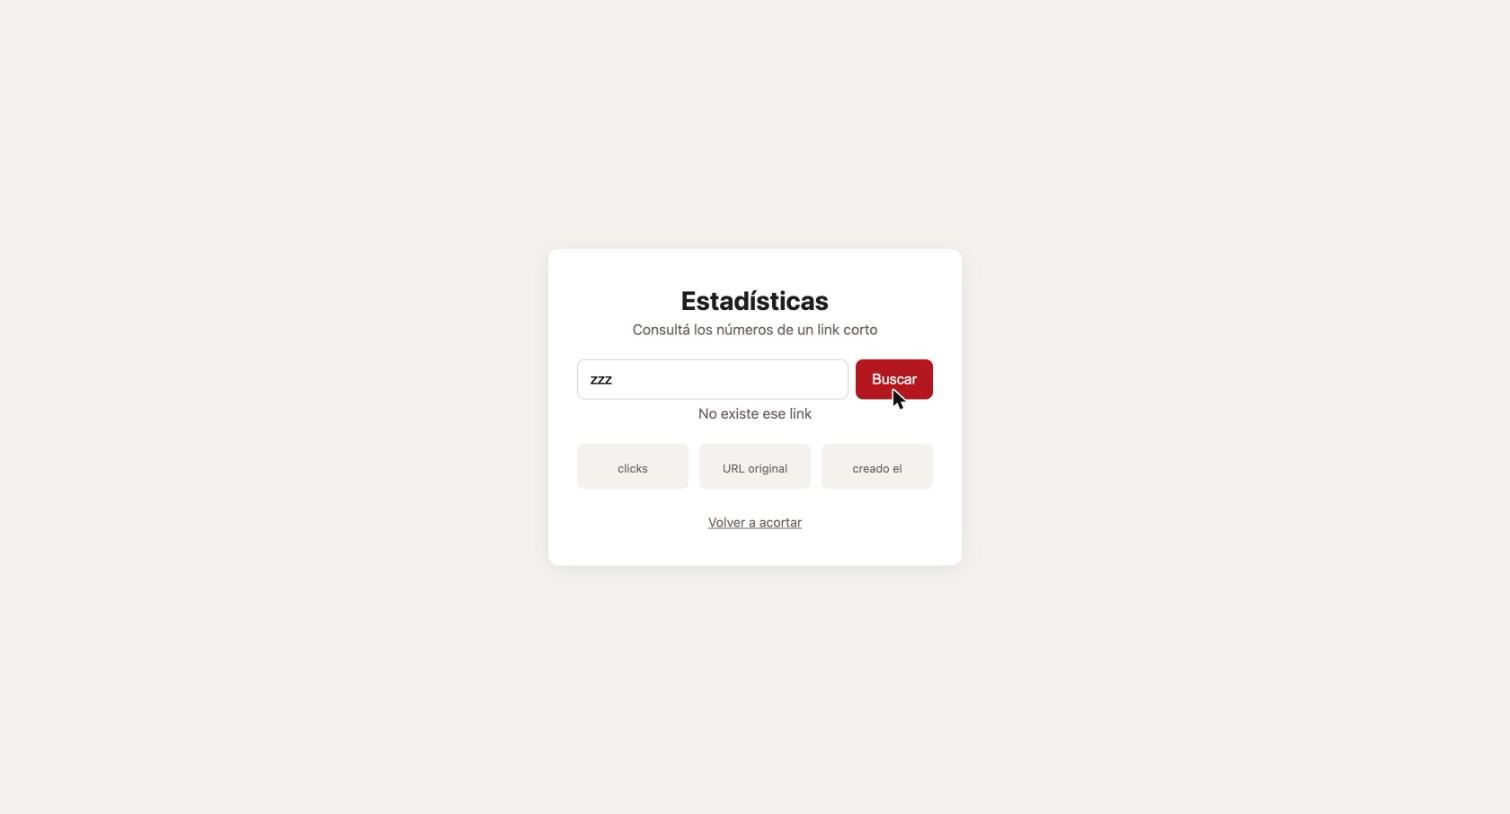
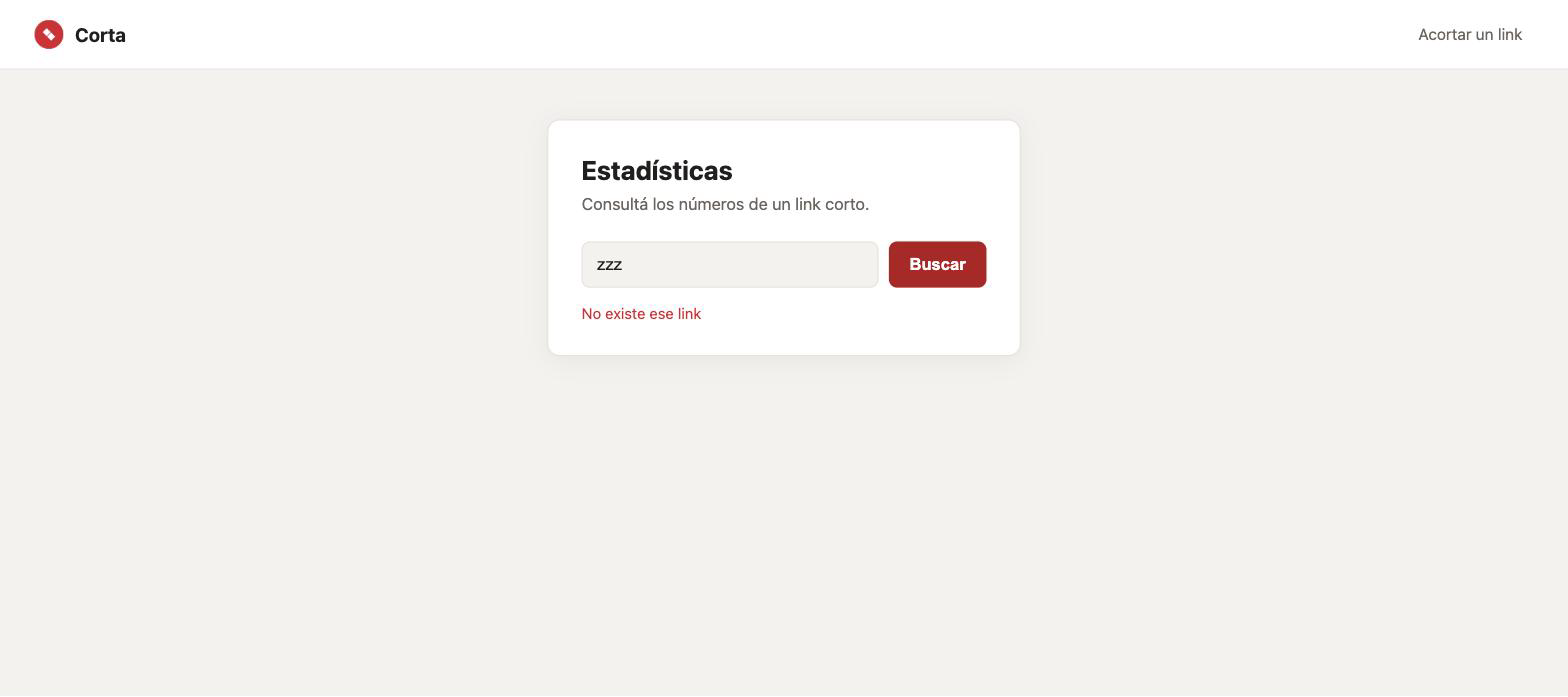
Actualizar README con el nuevo diseño: historial y vista mobile
GIF y capturas regrabados contra el rediseño en producción (layout tipo
dashboard con historial), sumando una captura mobile para mostrar el
responsive y documentando el flujo de historial (localStorage) y el
prefill de stats.html vía ?codigo=.

diff --git a/README.md b/README.md
@@ -1,19 +1,19 @@
 # Corta
 
-Corta es el acortador de URLs interno de la empresa. Un empleado pega una URL larga, recibe un código corto de 3 caracteres, y ese código lo redirige al destino original. Cada link lleva la cuenta de cuántas veces se usó.
+Corta es el acortador de URLs interno de la empresa. Un empleado pega una URL larga, recibe un código corto de 3 caracteres, y ese código lo redirige al destino original. Cada link lleva la cuenta de cuántas veces se usó, y el navegador guarda un historial de los links que fuiste creando.
 
 <p align="center">
-  <img src="docs/screenshots/inicio.png" alt="Pantalla principal de Corta, con una URL cargada" width="420">
+  <img src="docs/screenshots/inicio.png" alt="Pantalla principal de Corta: panel para acortar un link junto al historial de links creados en este navegador" width="680">
 </p>
 
 **En producción:** https://corta-production-2bad.up.railway.app
 
 ## Demo
 
-Flujo completo grabado sobre el deploy real en producción: acortar un link, entrar al link corto (redirect real), y ver cómo el click quedó contado en las estadísticas.
+Flujo completo grabado sobre el deploy real en producción: acortar un link, ver cómo aparece en el historial, entrar al link corto (redirect real), y confirmar el click en la pantalla de estadísticas — cerrando con la vista mobile.
 
 <p align="center">
-  <img src="docs/corta-demo.gif" alt="Demo animado: se acorta un link, se visita el link corto y se confirma el click en la pantalla de estadísticas" width="600">
+  <img src="docs/corta-demo.gif" alt="Demo animado: se acorta un link, aparece en el historial, se visita el link corto, se confirma el click en estadísticas, y se muestra la vista mobile" width="700">
 </p>
 
 ## De dónde viene este proyecto
@@ -26,19 +26,23 @@ Este repo documenta ese proceso completo: desde el desorden inicial (primer comm
 
 ### 1. Acortar un link
 
-Pegás una URL, apretás "Acortar", y te devuelve un link corto para compartir (con botón para copiarlo).
+Pegás una URL, apretás "Acortar", y te devuelve un link corto para compartir (con botón para copiarlo). El link nuevo aparece al toque en el historial de al lado.
 
 <p align="center">
-  <img src="docs/screenshots/link-generado.png" alt="Corta mostrando el link corto generado, con botón para copiarlo" width="420">
+  <img src="docs/screenshots/link-generado.png" alt="Corta mostrando el link corto generado, con botón para copiarlo, y el historial actualizado con los links creados" width="680">
 </p>
 
-### 2. Visitar el link corto
+### 2. Historial de links (por navegador)
+
+Cada link que acortás queda guardado en el `localStorage` de tu navegador — no en el servidor, así que es privado a tu sesión y no requiere login. Desde cada item del historial podés abrir el link corto o ir directo a sus estadísticas con el botón "Stats". Hay un botón "Borrar" para vaciarlo cuando quieras.
+
+### 3. Visitar el link corto
 
 Entrar a `/:codigo` hace un redirect real (302) al destino original — no es una pantalla intermedia, el navegador navega directo — y ese acceso queda contado.
 
-### 3. Ver estadísticas
+### 4. Ver estadísticas
 
-Desde la página principal, "Ver estadísticas de un link" lleva a una pantalla donde, poniendo el código de 3 caracteres, se consultan sus clicks, la URL de destino y la fecha de creación.
+Desde la página principal, "Ver estadísticas" lleva a una pantalla donde, poniendo el código de 3 caracteres, se consultan sus clicks, la URL de destino y la fecha de creación. Si venís de un link del historial, el código ya llega precargado y la búsqueda se dispara sola (`stats.html?codigo=xxx`).
 
 <p align="center">
   <img src="docs/screenshots/estadisticas.png" alt="Pantalla de estadísticas mostrando clicks, URL original y fecha de creación de un link" width="420">
@@ -48,6 +52,14 @@ Si el código no existe, se muestra un mensaje en vez de romper la pantalla:
 
 <p align="center">
   <img src="docs/screenshots/estadisticas-error.png" alt="Pantalla de estadísticas mostrando el mensaje 'No existe ese link' para un código inválido" width="420">
+</p>
+
+### 5. Responsive
+
+El layout de dos columnas (panel principal + historial) pasa a una sola columna apilada en pantallas chicas — probado en un viewport de celular real:
+
+<p align="center">
+  <img src="docs/screenshots/mobile.png" alt="Corta en un viewport de celular: el panel de acortar y el historial apilados en una sola columna" width="320">
 </p>
 
 ## Cómo correrlo
@@ -71,7 +83,7 @@ Corre la batería de tests (`node --test`) contra una base de datos temporal y a
 
 - **Server**: Express (`server.js`). Un único proceso, sin capas ni framework extra.
 - **Storage**: `storage.js` usa Postgres cuando hay `DATABASE_URL` seteada (producción); si no, cae a `links.json` en la raíz del repo, leído y escrito entero en cada request (local y tests). Así los links y clicks sobreviven a un redeploy en producción sin necesitar una base real para desarrollar.
-- **Frontend**: HTML/CSS/JS plano en `public/`, servido como estático por Express. Sin build step ni framework.
+- **Frontend**: HTML/CSS/JS plano en `public/`, servido como estático por Express. Sin build step ni framework. El historial de links vive enteramente en el navegador (`localStorage`), no toca el backend.
 - **Generación de códigos**: `utils.js` arma códigos de 3 caracteres `[a-z0-9]` y reintenta hasta encontrar uno que no esté en uso, para que dos links nunca puedan pisarse.
 
 ### Endpoints
